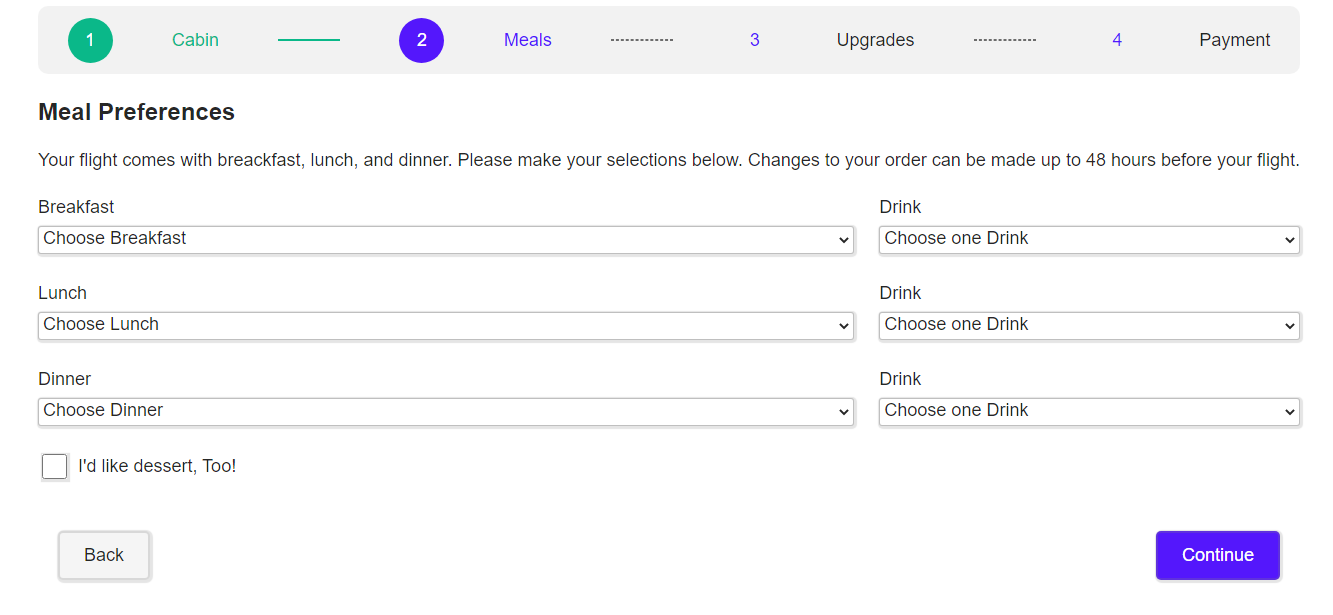
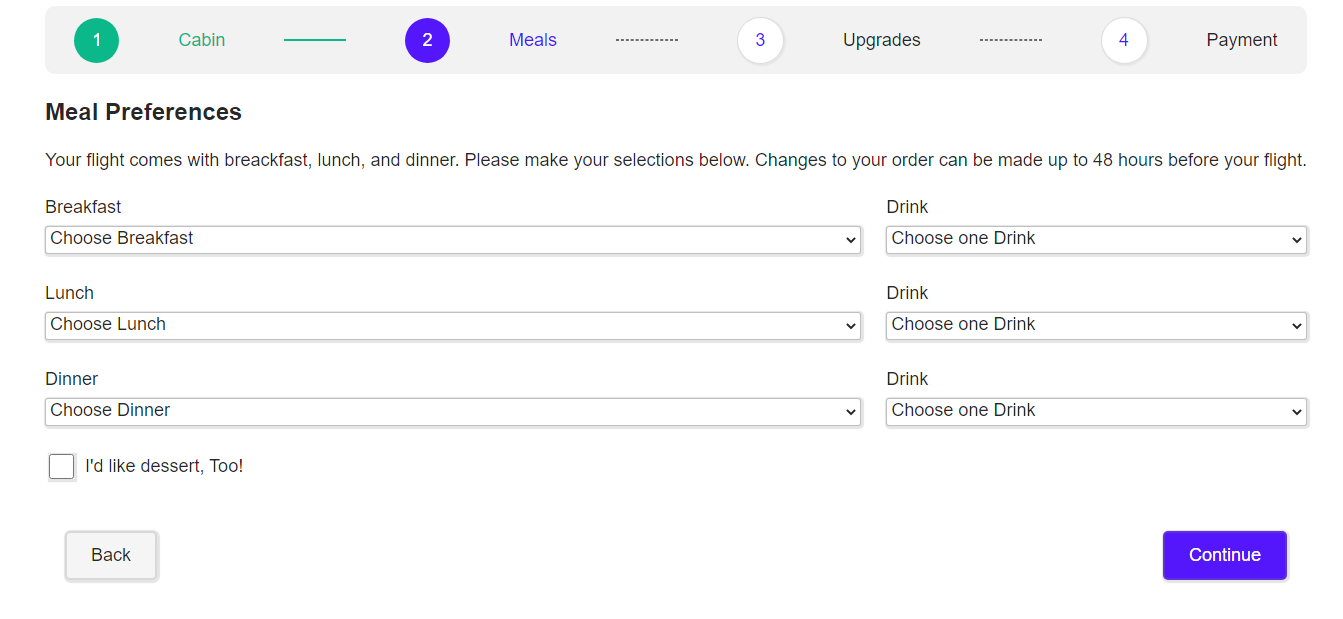
numbers circle

diff --git a/index.html b/index.html
@@ -17,10 +17,10 @@
       <span class="p-number p-blue p-b">2</span>
       <span class="p-text p-blue">Meals</span>
       <div class="line-dotted"></div>
-      <span class="p-number">3</span>
+      <span class="p-number p-w">3</span>
       <span class="p-text">Upgrades</span>
       <div class="line-dotted"></div>
-      <span class="p-number">4</span>
+      <span class="p-number p-w">4</span>
       <span class="p-text">Payment</span>
     </div>
     <div class="meal">

diff --git a/index.css b/index.css
@@ -82,6 +82,13 @@ span.p-b {
   color: white;
 }
 
+span.p-w {
+  background-color: white;
+  color: rgb(84, 23, 252);
+  border: 1px rgba(128, 128, 128, 0.25) solid;
+  box-shadow: 1px 1px 1px 1px rgba(126, 126, 126, 0.1);
+}
+
 div.meal > div.m-time > div.t-time {
   display: grid;
   grid-template-columns: 2fr 1fr;

diff --git a/README.md b/README.md
@@ -4,4 +4,4 @@ Markup III - Stepper
 
 Enjoy the website :)
 
-![Captura_screen](https://user-images.githubusercontent.com/113383293/192897109-49f55063-0d2c-45ac-9a5c-ec5ae0707a15.PNG)
+![Captura_screen](https://user-images.githubusercontent.com/113383293/192898132-a2a3a7b4-f786-440b-8a07-c903ac34e40b.PNG)
